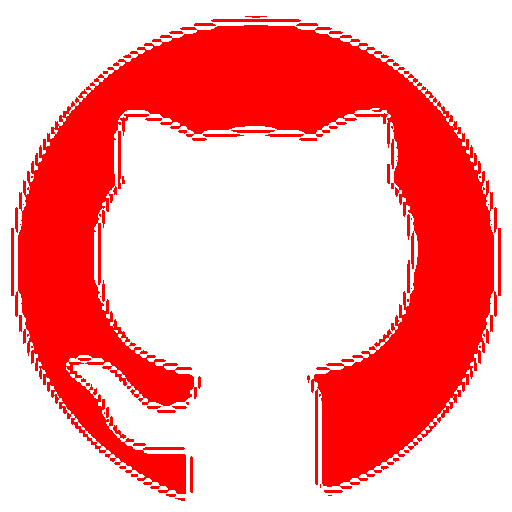
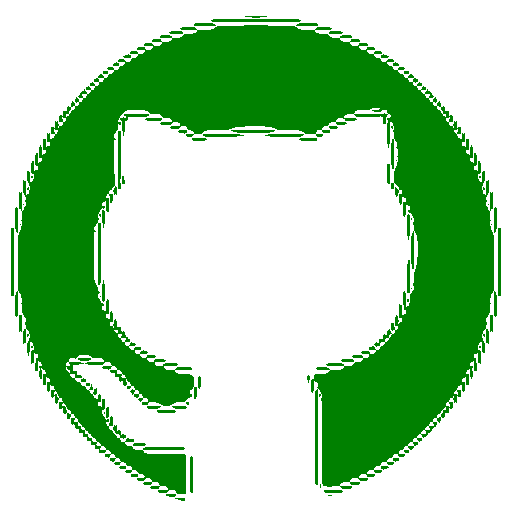
finishing samples

diff --git a/src/logic.py b/src/logic.py
@@ -196,7 +196,7 @@ def get_colors(img:object):
                     not out_pixel
                  ):
                     out_pixel = True
-                    logging.info(f"No transparent pixel found: {img.getpixel((x,y))}")
+                    logging.info(f"Transparent pixel found: {img.getpixel((x,y))}")
                 drawer.point((x,y),fill=(255, 0, 0, 0)) # just set alpha channel
     
     if(not out_pixel):

diff --git a/README.md b/README.md
@@ -81,6 +81,17 @@ To run a specific sample just type the name without extension for PNG
 
 # Example of execution:
 
+Down here there are some examples of execution with logs and information. 
+
+The results are that:
+
+- Conversion works in all cases
+- The resizing process does not break the image quality and 
+  can potentially work in a real use case
+- Color analysis is not sentiment analysis -> very hard to determine if an image is happy from the color palette.
+-  Determining the palette can be an expensive task when the clustering algorithm is used. 
+- Note about execution time -> does not really matter numerically even because is influences by a wide number of factory, it's just a way to give the idea of the difference between images.
+
 ### Sample 1
 
 Sample Info
@@ -92,24 +103,23 @@ Sample Info
 
 | Sample Input | Output Image | Execution Time|
 | ------------ |------------ | ------------- |
-|![Image 1](./examples/base/home.jpg)| ![Image 2](./examples/output/home.png) | 13.65 seconds|
-```
-Program output
+|![Image 1](./examples/base/home.jpg)| ![Image 2](./examples/output/home.png) | 13.42 seconds|
 
-INFO:root:Parallel - Image path: ./examples/base/home.jpg
-INFO:root:Image format : PNG
-INFO:root:Image mode : RGBA
-INFO:root:Original image size : (599, 371)
-INFO:root:Resizing image
-INFO:root:Happy - Check if the palette colors is happy,
-INFO:root:Palette colors found: 16613
-INFO:root:Start clustering, number of centers: 5
-INFO:root:Is happy? True
-INFO:root:get_palette_sentiment took 13.69 seconds to execute.
-INFO:root:Saving image at ./examples/output/home.png
-INFO:root:base took 13.80 seconds to execute.
 ```
-
+> python3 ./src/main.py home.jpg
+    INFO:root:Parallel - Image path: ./examples/base/home.jpg
+    INFO:root:Image format : PNG
+    INFO:root:Image mode : RGBA
+    INFO:root:Original image size : (599, 371)
+    INFO:root:Resizing image
+    INFO:root:Happy - Check if the palette colors is happy,
+    INFO:root:Palette colors found: 16613
+    INFO:root:Start clustering, number of centers: 5
+    INFO:root:Is happy? True
+    INFO:root:get_palette_sentiment took 13.42 seconds to execute.
+    INFO:root:Saving image at ./examples/output/home.png
+    INFO:root:base took 13.53 seconds to execute.
+```
 ### Sample 2
 
 Sample Info
@@ -120,24 +130,23 @@ Sample Info
 
 | Sample Input | Output Image | Execution Time|
 | ------------ |------------ | ------------- |
-|![Image 1](./examples/base/b44.png)| ![Image 2](./examples/output/b44.png) | 7.50 seconds|
+|![Image 1](./examples/base/b44.png)| ![Image 2](./examples/output/b44.png) | 7.03 seconds|
 
 ```
-Program output
-
-INFO:root:Parallel - Image path: ./examples/base/b44.png
-INFO:root:Image format : PNG
-INFO:root:Image mode : RGBA
-INFO:root:Original image size : (400, 400)
-INFO:root:Resizing image
-INFO:root:Happy - Check if the palette colors is happy,
-INFO:root:Out Pixel found: (0, 0, 0, 0)
-INFO:root:Palette colors found: 15017
-INFO:root:Start clustering, number of centers: 5
-INFO:root:Is happy? True
-INFO:root:get_palette_sentiment took 7.45 seconds to execute.
-INFO:root:Saving image at ./examples/output/b44.png
-INFO:root:base took 7.50 seconds to execute.
+> python3 ./src/main.py b44
+    INFO:root:Parallel - Image path: ./examples/base/b44.png
+    INFO:root:Image format : PNG
+    INFO:root:Image mode : RGBA
+    INFO:root:Original image size : (400, 400)
+    INFO:root:Resizing image
+    INFO:root:Happy - Check if the palette colors is happy,
+    INFO:root:Transparent pixel found: (0, 1, 1, 0)
+    INFO:root:Palette colors found: 15017
+    INFO:root:Start clustering, number of centers: 5
+    INFO:root:Is happy? True
+    INFO:root:get_palette_sentiment took 6.98 seconds to execute.
+    INFO:root:Saving image at ./examples/output/b44.png
+    INFO:root:base took 7.03 seconds to execute.
 ```
 
 ### Sample 3
@@ -150,21 +159,22 @@ Sample Info
 
 | Sample Input | Output Image | Execution Time|
 | ------------ |------------ | ------------- |
-|![Image 1](./examples/base/basket.png)| ![Image 2](./examples/output/basket.png) |  1.35 seconds|
+|![Image 1](./examples/base/basket.png)| ![Image 2](./examples/output/basket.png) |  93.29 seconds|
 ```
+> python3 ./src/main.py basket
 INFO:root:Parallel - Image path: ./examples/base/basket.png
 INFO:root:Image format : PNG
 INFO:root:Image mode : RGBA
 INFO:root:Original image size : (500, 900)
 INFO:root:Resizing image
 INFO:root:Happy - Check if the palette colors is happy,
-INFO:root:Out Pixel found: (0, 0, 1, 0)
+INFO:root:No transparent pixel found: (0, 0, 1, 0)
 INFO:root:Palette colors found: 100799
 INFO:root:Start clustering, number of centers: 5
 INFO:root:Is happy? True
-INFO:root:get_palette_sentiment took 94.43 seconds to execute.
+INFO:root:get_palette_sentiment took 93.15 seconds to execute.
 INFO:root:Saving image at ./examples/output/basket.png
-INFO:root:base took 94.56 seconds to execute.
+INFO:root:base took 93.29 seconds to execute.
 ```
 
 ### Sample 4
@@ -179,18 +189,19 @@ Sample Info
 | ------------ |------------ | ------------- |
 |![Image 1](./examples/base/eyes.png)| ![Image 2](./examples/output/eyes.png) | 0.86 seconds|
 ```
-Program output logs:
+> python3 ./src/main.py eyes
 
 INFO:root:Parallel - Image path: ./examples/base/eyes.png
 INFO:root:Image format : PNG
 INFO:root:Image mode : RGBA
 INFO:root:Happy - Check if the palette colors is happy,
+INFO:root:There are no non-transparent pixel out of the circle
 INFO:root:Palette colors found: 251
 INFO:root:Start clustering, number of centers: 5
 INFO:root:Is happy? False
-INFO:root:get_palette_sentiment took 0.86 seconds to execute.
+INFO:root:get_palette_sentiment took 0.87 seconds to execute.
 INFO:root:Saving image at ./examples/output/eyes.png
-INFO:root:base took 0.88 seconds to execute.
+INFO:root:base took 0.89 seconds to execute.
 ```
 
 ### Sample 4
@@ -207,6 +218,7 @@ Sample Info
 | ------------ |------------ | ------------- |
 |![Image 1](./examples/base/github.png)| ![Image 2](./examples/output/github.png) | 0.86 seconds|
 ```
+>  python3 ./src/main.py github
 INFO:root:Parallel - Image path: ./examples/base/github.png
 INFO:root:Image format : PNG
 INFO:root:Image mode : RGBA
@@ -217,10 +229,8 @@ INFO:root:There are no non-transparent pixel out of the circle
 INFO:root:Palette colors found: 1
 INFO:root:Is happy? False
 INFO:root: - Maybe we can fix this..
-INFO:root: - Swapping colors [((0, 0, 0, 0), 'red')]
-INFO:root:Swapping no dominants colors [((0, 0, 0, 0), 'red')]
-INFO:root:Swapping no dominants colors [(0, 0, 0, 0)]
-INFO:root:get_palette_sentiment took 1.35 seconds to execute.
+INFO:root: - Swapping colors [((0, 0, 0, 0), 'green')]
+INFO:root:get_palette_sentiment took 1.23 seconds to execute.
 INFO:root:Saving image at ./examples/output/github.png
-INFO:root:base took 1.38 seconds to execute.
+INFO:root:base took 1.25 seconds to execute.
 ```
